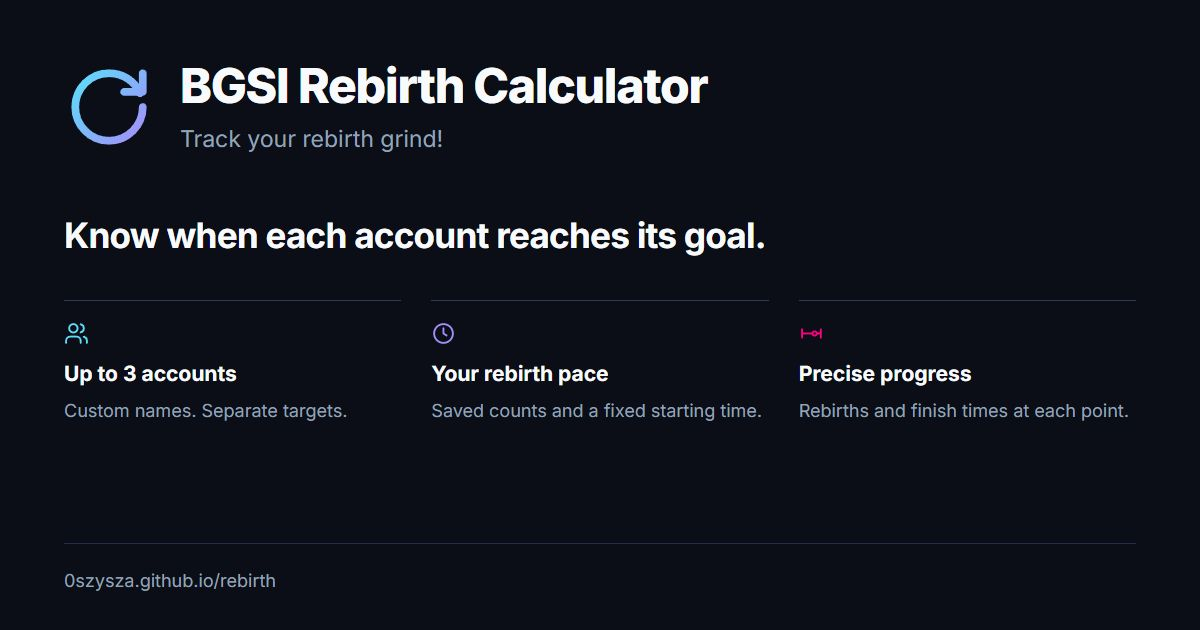
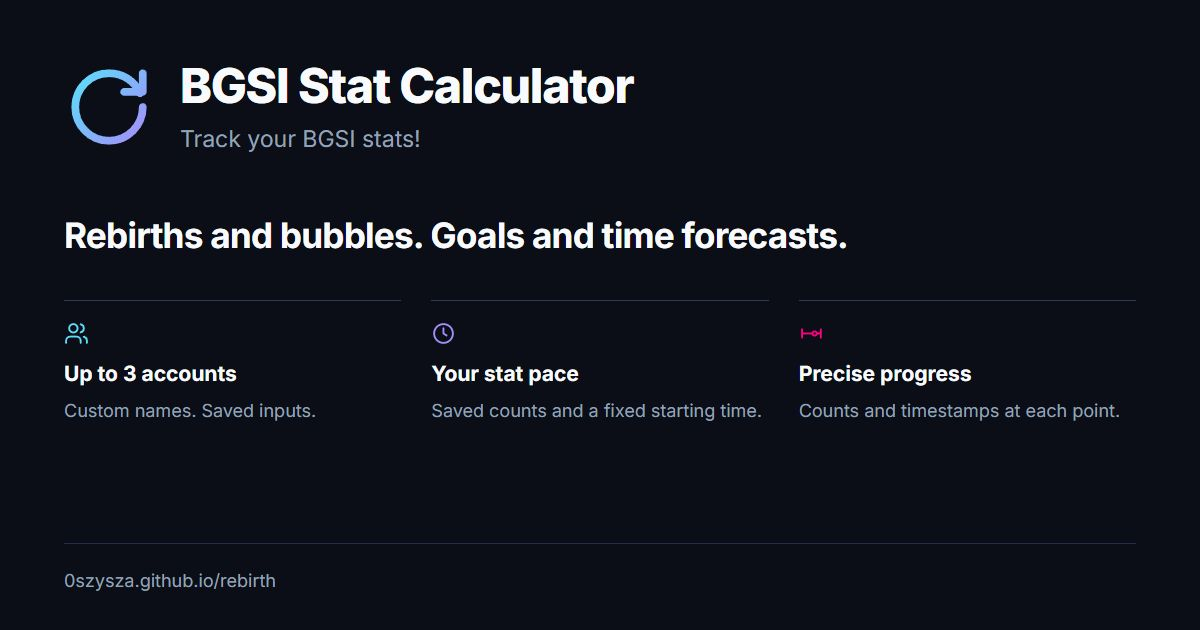
Introduce BGSI Stat Calculator sections and shared Bubble forecasts

diff --git a/app.js b/app.js
@@ -1,5 +1,15 @@
 import { calculate, calculateInterval, restoreSnapshot } from "./calc.mjs?v=20261002-7";
 
+import { parseAmount, formatAmount, stepAmount } from "./amounts.mjs?v=20261004-1";
+
+const isBubble = document.body.dataset.stat === "bubble";
+const statUnit = isBubble ? "bubbles" : "rebirths";
+const statLabel = isBubble ? "Bubbles" : "Rebirths";
+const countNoun = isBubble ? "bubble" : "rebirth";
+const paceLabel = isBubble ? "Bubble" : "Rebirth";
+const amountFormat = { format: value => isBubble ? formatAmount(value) : numberFormat.format(value) };
+const amountInput = (id, value, step = "1") => `<input id="${id}" data-stat-amount type="${isBubble ? "text" : "number"}" min="0" step="${step}" inputmode="${isBubble ? "text" : step === "1" ? "numeric" : "decimal"}" autocomplete="off" ${isBubble ? 'aria-describedby="amount-help" placeholder="e.g. 1.5B"' : ""} value="${value}">`;
+
 const $ = (id) => document.getElementById(id);
 const accounts = [
   { key: "main", name: "Account 1", className: "main", current: "8108", target: "9999", rebirths: "158" },
@@ -17,8 +27,9 @@ const calendarMonthFormat = new Intl.DateTimeFormat("en-GB", { month: "long", ye
 const calendarDayFormat = new Intl.DateTimeFormat("en-GB", { weekday: "long", day: "numeric", month: "long", year: "numeric" });
 const accountCalculations = new Map();
 const previewPositions = new Map();
-let accountCount = 2;
-let calculatorMode = "goal";
+if (isBubble) accounts.forEach(account => { account.current = "0"; account.target = ""; account.rebirths = ""; });
+let accountCount = isBubble ? 1 : 2;
+let calculatorMode = isBubble ? "interval" : "goal";
 let durationMode = "duration";
 let modeStates = {};
 document.body.dataset.accountCount = String(accountCount);
@@ -44,11 +55,11 @@ function accountMarkup(account) {
         <div class="account-card__quick"><span id="${key}-quick-label">ETA</span><strong id="${key}-quick-eta">—</strong></div>
       </div>
       <div class="account-card__fields">
-        <div class="field"><label for="${key}-current">Starting rebirths</label><input id="${key}-current" type="number" min="0" step="1" inputmode="numeric" value="${current}"></div>
-        <div class="field target-field"><label for="${key}-target">Target rebirths</label><input id="${key}-target" type="number" min="0" step="1" inputmode="numeric" value="${target}"></div>
+        <div class="field"><label for="${key}-current">Starting ${statUnit}</label>${amountInput(`${key}-current`, current)}</div>
+        <div class="field target-field"><label for="${key}-target">Target ${statUnit}</label>${amountInput(`${key}-target`, target)}</div>
       </div>
-      <fieldset class="pace-group" aria-label="Rebirth pace"><div class="pace-fields">
-        <div class="field"><label for="${key}-rebirths">Rebirths</label><input id="${key}-rebirths" type="number" min="0" step="any" inputmode="decimal" value="${rebirths}"></div>
+      <fieldset class="pace-group" aria-label="${paceLabel} pace"><div class="pace-fields">
+        <div class="field"><label for="${key}-rebirths">${statLabel}</label>${amountInput(`${key}-rebirths`, rebirths, "any")}</div>
         <span class="pace-fields__per" aria-hidden="true">per</span>
         <div class="field"><label for="${key}-minutes">Minutes</label><input id="${key}-minutes" type="number" min="0.01" step="any" inputmode="decimal" value="10"></div>
       </div></fieldset>
@@ -60,7 +71,7 @@ function accountMarkup(account) {
           <div class="progress-tooltip" id="${key}-progress-tooltip" role="tooltip" aria-live="off" hidden>
             <div class="progress-tooltip__head"><strong id="${key}-hover-percent">—</strong><span id="${key}-hover-count">—</span></div>
             <div class="progress-tooltip__row"><span>At this point</span><strong id="${key}-hover-time">—</strong></div>
-            <div class="progress-tooltip__row interval-gain" hidden><span>Rebirths gained</span><strong id="${key}-hover-gain">—</strong></div>
+            <div class="progress-tooltip__row interval-gain" hidden><span>${statLabel} gained</span><strong id="${key}-hover-gain">—</strong></div>
             <div class="progress-tooltip__row"><span id="${key}-hover-finish-label">Estimated finish</span><strong id="${key}-hover-finish">—</strong></div>
           </div>
         </div>
@@ -85,7 +96,7 @@ function readDate(input) {
   return Number.isFinite(date.getTime()) ? date : null;
 }
 function readNumber(input) {
-  return input.value.trim() === "" ? NaN : Number(input.value);
+  return isBubble && input.hasAttribute("data-stat-amount") ? parseAmount(input.value) : input.value.trim() === "" ? NaN : Number(input.value);
 }
 function formatDuration(milliseconds) {
   if (milliseconds === null) return "No pace";
@@ -100,7 +111,7 @@ function paceForAccount(key) {
   const rebirths = readNumber($(`${key}-rebirths`));
   const minutes = readNumber($(`${key}-minutes`));
   if (!Number.isFinite(rebirths) || rebirths < 0 || !Number.isFinite(minutes) || minutes <= 0) {
-    return { error: "Enter rebirths and a number of minutes above zero." };
+    return { error: `Enter valid ${statUnit} and a number of minutes above zero.${isBubble ? " Amounts accept M, B and T." : ""}` };
   }
   return { rebirths, minutes };
 }
@@ -124,7 +135,7 @@ function showProgressTooltip(key, rawPercent) {
   let pointTime = formatDateTime(data.snapshot);
   if (data.mode === "interval") {
     pointTime = formatDateTime(new Date(data.snapshot.getTime() + data.durationMinutes * 60000 * percent / 100), false);
-    $(`${key}-hover-gain`).textContent = `≈ ${numberFormat.format(Math.floor(data.result.totalGain * percent / 100))}`;
+    $(`${key}-hover-gain`).textContent = `≈ ${amountFormat.format(Math.floor(data.result.totalGain * percent / 100))}`;
   } else if (count !== data.current) {
     const timestamp = data.snapshot.getTime() + (count - data.current) * data.pace.minutes / data.pace.rebirths * 60000;
     pointTime = data.pace.rebirths === 0 ? "No pace estimate"
@@ -134,7 +145,7 @@ function showProgressTooltip(key, rawPercent) {
   const goalTime = data.result.eta ? formatDateTime(data.result.eta, data.mode !== "interval")
       : data.pace.rebirths === 0 ? "No pace" : "Out of range";
   $(`${key}-hover-percent`).textContent = `${percentFormat.format(percent)}%`;
-  $(`${key}-hover-count`).textContent = `${numberFormat.format(count)} rebirths`;
+  $(`${key}-hover-count`).textContent = `${amountFormat.format(count)} ${statUnit}`;
   $(`${key}-hover-time`).textContent = pointTime;
   $(`${key}-hover-finish`).textContent = goalTime;
 
@@ -153,8 +164,11 @@ function showProgressTooltip(key, rawPercent) {
 function clearResult(key, message, neutral = false) {
   accountCalculations.delete(key);
   hideProgressTooltip(key);
-  for (const id of ["progress-text", "eta", "eta-date", "remaining", "duration", "projected"]) $(`${key}-${id}`).textContent = "—";
-  $(`${key}-eta-label`).textContent = calculatorMode === "interval" ? "Rebirths at interval end" : "Estimated finish";
+  for (const id of ["progress-text", "eta", "eta-date", "remaining", "duration", "projected"]) {
+    $(`${key}-${id}`).textContent = "—";
+    $(`${key}-${id}`).removeAttribute("title");
+  }
+  $(`${key}-eta-label`).textContent = calculatorMode === "interval" ? `${statLabel} at interval end` : "Estimated finish";
   $(`${key}-quick-eta`).textContent = "—";
   $(`${key}-progress-bar`).style.width = "0%";
   $(`${key}-progress-bar`).parentElement.setAttribute("aria-valuenow", "0");
@@ -169,7 +183,7 @@ function renderAccount(key, common) {
   const isInterval = calculatorMode === "interval";
   if (!Number.isFinite(current) || current < 0 || (!isInterval && (!Number.isFinite(target) || target < 0))) {
     const blank = $(`${key}-current`).value.trim() === "" || (!isInterval && $(`${key}-target`).value.trim() === "");
-    clearResult(key, blank ? "" : "Counts must be zero or greater.");
+    clearResult(key, blank ? "" : isBubble ? "Enter a valid amount, for example 250M or 1.5B (up to 9,007,199,254,740,991)." : "Counts must be zero or greater.");
     return;
   }
   const pace = paceForAccount(key);
@@ -192,14 +206,14 @@ function renderAccount(key, common) {
   $(`${key}-progress-bar`).style.width = `${result.progress}%`;
   $(`${key}-progress-bar`).parentElement.setAttribute("aria-valuenow", result.progress.toFixed(1));
   $(`${key}-progress-bar`).parentElement.setAttribute("aria-valuetext", isInterval
-    ? `${percentFormat.format(result.progress)}% of the interval elapsed, estimated ${numberFormat.format(Math.floor(result.projected))} rebirths now`
-    : `Estimated ${percentFormat.format(result.progress)}%, ${numberFormat.format(Math.floor(result.projected))} of ${numberFormat.format(target)} rebirths`);
-  $(`${key}-remaining`).textContent = isInterval ? `≈ ${numberFormat.format(Math.floor(result.totalGain))}` : numberFormat.format(Math.ceil(result.remaining));
-  $(`${key}-projected`).textContent = `≈ ${numberFormat.format(Math.floor(result.projected))} rebirths`;
+    ? `${percentFormat.format(result.progress)}% of the interval elapsed, estimated ${amountFormat.format(Math.floor(result.projected))} ${statUnit} now`
+    : `Estimated ${percentFormat.format(result.progress)}%, ${amountFormat.format(Math.floor(result.projected))} of ${amountFormat.format(target)} ${statUnit}`);
+  $(`${key}-remaining`).textContent = isInterval ? `≈ ${amountFormat.format(Math.floor(result.totalGain))}` : amountFormat.format(Math.ceil(result.remaining));
+  $(`${key}-projected`).textContent = `≈ ${amountFormat.format(Math.floor(result.projected))} ${statUnit}`;
   $(`${key}-duration`).textContent = formatDuration(result.activeDuration);
   if (isInterval) {
-    $(`${key}-eta-label`).textContent = "Rebirths at interval end";
-    $(`${key}-eta`).textContent = `≈ ${numberFormat.format(Math.floor(result.finalCount))}`;
+    $(`${key}-eta-label`).textContent = `${statLabel} at interval end`;
+    $(`${key}-eta`).textContent = `≈ ${amountFormat.format(Math.floor(result.finalCount))}`;
     $(`${key}-eta-date`).textContent = `${result.reached ? "Ended" : "Ends"} ${formatDateTime(result.eta, false)}`;
     $(`${key}-quick-eta`).textContent = result.reached ? "Done" : timeFormat.format(result.eta);
   } else if (result.eta) {
@@ -213,6 +227,11 @@ function renderAccount(key, common) {
     $(`${key}-eta`).textContent = pace.rebirths === 0 ? "No pace" : "Out of range";
     $(`${key}-eta-date`).textContent = "—";
     $(`${key}-quick-eta`).textContent = pace.rebirths === 0 ? "No pace" : "—";
+  }
+  if (isBubble) {
+    for (const [field, value] of [["remaining", isInterval ? result.totalGain : result.remaining], ["projected", result.projected], ["eta", isInterval ? result.finalCount : NaN]]) {
+      $(`${key}-${field}`).title = Number.isFinite(value) ? `${numberFormat.format(Math.floor(value))} bubbles` : "";
+    }
   }
   $(`${key}-message`).textContent = "";
   $(`${key}-message`).classList.remove("is-neutral");
@@ -249,7 +268,7 @@ function render() {
 }
 
 function initNumberControls(root) {
-  root.querySelectorAll('input[type="number"]').forEach((input) => {
+  root.querySelectorAll('input[type="number"], input[data-stat-amount]').forEach((input) => {
     if (input.closest(".number-control")) return;
     const label = input.dataset.stepLabel || input.labels?.[0]?.textContent.trim() || "value";
     const control = document.createElement("div");
@@ -265,6 +284,12 @@ function initNumberControls(root) {
 }
 
 function stepNumber(input, direction) {
+  if (isBubble && input.hasAttribute("data-stat-amount")) {
+    input.value = stepAmount(input.value, direction);
+    input.dispatchEvent(new Event("input", { bubbles: true }));
+    input.focus();
+    return;
+  }
   const step = Number(input.dataset.stepSize || (input.step === "any" ? 1 : input.step) || 1);
   const min = input.min === "" ? -Infinity : Number(input.min);
   const max = input.max === "" ? Infinity : Number(input.max);
@@ -569,7 +594,7 @@ document.addEventListener("pointerdown", (event) => {
     for (const account of accounts) hideProgressTooltip(account.key);
   }
 });
-const storageKey = "rebirth-calculator:v1";
+const storageKey = isBubble ? "bubble-calculator:v1" : "rebirth-calculator:v1";
 const accountFields = ["current", "target", "rebirths", "minutes"];
 
 function saveState() {
@@ -629,12 +654,12 @@ function syncCalculatorMode() {
   document.body.dataset.calculatorMode = calculatorMode;
   $("interval-settings").hidden = !isInterval;
   $("calculator-description").textContent = isInterval
-    ? "Set your starting rebirths and pace to see how much each account gains over time."
-    : "Set your rebirth counts and pace to see when each account reaches its goal.";
+    ? `Set your starting ${statUnit} and pace to see how much each account gains over time.`
+    : `Set your ${countNoun} counts and pace to see when each account reaches its goal.`;
   document.querySelector('label[for="snapshot"]').textContent = isInterval ? "Interval starts at" : "Counts recorded at";
   $("snapshot-help").textContent = isInterval
     ? "Enter the counts you had at this starting time. The interval keeps the same end when you return. Choose Now in this calendar when recording fresh counts."
-    : "Enter the rebirth counts you had at this time. This saved starting point keeps your finish time fixed. Estimates assume you keep rebirthing at the entered pace.";
+    : `Enter the ${countNoun} counts you had at this time. This saved starting point keeps your finish time fixed. Estimates assume you keep gaining ${statUnit} at the entered pace.`;
   $("snapshot-picker").setAttribute("aria-label", isInterval ? "Interval start date and time" : "Recorded date and time");
   document.querySelector('[data-date-for="snapshot"]').setAttribute("aria-label", isInterval ? "Choose interval start date and time" : "Choose recorded date and time");
   for (const {key} of accounts) {
@@ -643,7 +668,7 @@ function syncCalculatorMode() {
     card.querySelector(".interval-gain").hidden = !isInterval;
     $(`${key}-quick-label`).textContent = isInterval ? "ENDS" : "ETA";
     $(`${key}-progress-label`).textContent = isInterval ? "Interval progress" : "Estimated progress";
-    $(`${key}-remaining-label`).textContent = isInterval ? "Rebirths gained" : "Remaining";
+    $(`${key}-remaining-label`).textContent = isInterval ? `${statLabel} gained` : "Remaining";
     $(`${key}-hover-finish-label`).textContent = isInterval ? "Interval ends" : "Estimated finish";
     hideProgressTooltip(key);
   }
@@ -738,7 +763,7 @@ restoreState();
 syncCalculatorMode();
 // Persist the initial timestamp once, including migration from older saved inputs.
 saveState();
-document.querySelectorAll('#accounts-grid input[type="number"], #interval-settings input[type="number"]').forEach((input) => {
+document.querySelectorAll('#accounts-grid input[data-stat-amount], #accounts-grid input[type="number"], #interval-settings input[type="number"]').forEach((input) => {
   const update = () => { render(); saveState(); };
   input.addEventListener("input", update);
   input.addEventListener("change", update);

diff --git a/index.html b/index.html
@@ -4,36 +4,38 @@
   <meta charset="utf-8">
   <meta name="viewport" content="width=device-width, initial-scale=1">
   <meta name="theme-color" content="#5CDDFA">
-  <title>BGSI Rebirth Calculator</title>
+  <title>Rebirth | BGSI Stat Calculator</title>
   <link rel="icon" type="image/svg+xml" href="favicon.svg">
   <link rel="preconnect" href="https://fonts.googleapis.com">
   <link rel="preconnect" href="https://fonts.gstatic.com" crossorigin>
   <link href="https://fonts.googleapis.com/css2?family=Inter:wght@400;500;600;700;800&display=swap" rel="stylesheet">
-  <link rel="stylesheet" href="styles.css?v=20261002-24">
-  <script type="module" src="app.js?v=20261002-24"></script>
+  <link rel="stylesheet" href="styles.css?v=20261004-1">
+  <script type="module" src="app.js?v=20261004-1"></script>
 <link rel="canonical" href="https://0szysza.github.io/rebirth/">
 <meta name="description" content="Track your BGSI rebirth grind for up to three named accounts. Estimate a goal finish time or rebirths gained over a custom time interval, with saved inputs and your own pace.">
 <meta property="og:type" content="website">
-<meta property="og:site_name" content="BGSI Rebirth Calculator">
+<meta property="og:site_name" content="BGSI Stat Calculator">
 <meta property="og:locale" content="en_GB">
-<meta property="og:title" content="BGSI Rebirth Calculator">
+<meta property="og:title" content="Rebirth | BGSI Stat Calculator">
 <meta property="og:description" content="Track your BGSI rebirth grind for up to three named accounts. Estimate a goal finish time or rebirths gained over a custom time interval, with saved inputs and your own pace.">
 <meta property="og:url" content="https://0szysza.github.io/rebirth/">
-<meta property="og:image" content="https://0szysza.github.io/rebirth/assets/social/cover.png?v=20261002-1">
-<meta property="og:image:secure_url" content="https://0szysza.github.io/rebirth/assets/social/cover.png?v=20261002-1">
+<meta property="og:image" content="https://0szysza.github.io/rebirth/assets/social/cover.png?v=20261004-1">
+<meta property="og:image:secure_url" content="https://0szysza.github.io/rebirth/assets/social/cover.png?v=20261004-1">
 <meta property="og:image:type" content="image/png">
 <meta property="og:image:width" content="1200">
 <meta property="og:image:height" content="630">
-<meta property="og:image:alt" content="BGSI Rebirth Calculator: three accounts, custom pace and estimated finish times.">
+<meta property="og:image:alt" content="BGSI Stat Calculator: three accounts, custom pace and estimated finish times.">
 <meta name="twitter:card" content="summary_large_image">
-<meta name="twitter:title" content="BGSI Rebirth Calculator">
+<meta name="twitter:title" content="Rebirth | BGSI Stat Calculator">
 <meta name="twitter:description" content="Track your BGSI rebirth grind for up to three named accounts. Estimate a goal finish time or rebirths gained over a custom time interval, with saved inputs and your own pace.">
-<meta name="twitter:image" content="https://0szysza.github.io/rebirth/assets/social/cover.png?v=20261002-1">
-<meta name="twitter:image:alt" content="BGSI Rebirth Calculator: three accounts, custom pace and estimated finish times.">
+<meta name="twitter:image" content="https://0szysza.github.io/rebirth/assets/social/cover.png?v=20261004-1">
+<meta name="twitter:image:alt" content="BGSI Stat Calculator: three accounts, custom pace and estimated finish times.">
 </head>
-<body>
+<body data-stat="rebirth">
   <svg class="icon-library" aria-hidden="true" xmlns="http://www.w3.org/2000/svg">
     <symbol id="icon-calendar" viewBox="0 0 24 24"><rect x="3" y="5" width="18" height="16" rx="2"/><path d="M16 3v4M8 3v4M3 11h18"/></symbol>
+    <symbol id="icon-rebirth" viewBox="0 0 24 24"><path d="M21 12a9 9 0 1 1-3-6.7L21 8"/><path d="M21 3v5h-5"/></symbol>
+    <symbol id="icon-bubble" viewBox="0 0 24 24"><circle cx="10" cy="14" r="7"/><circle cx="18" cy="5" r="3"/><path d="M6 12a4 4 0 0 1 4-2"/></symbol>
     <symbol id="icon-clock" viewBox="0 0 24 24"><circle cx="12" cy="12" r="9"/><path d="M12 7v5l3 2"/></symbol>
     <symbol id="icon-arrow-left" viewBox="0 0 24 24"><path d="M19 12H5m7 7-7-7 7-7"/></symbol>
     <symbol id="icon-users" viewBox="0 0 24 24"><path d="M16 21v-2a4 4 0 0 0-4-4H6a4 4 0 0 0-4 4v2"/><circle cx="9" cy="7" r="4"/><path d="M22 21v-2a4 4 0 0 0-3-3.87M16 3.13a4 4 0 0 1 0 7.75"/></symbol>
@@ -49,22 +51,26 @@
   <header class="site-header">
     <div class="site-header__inner">
       <a class="home-link" href="https://0szysza.github.io/" aria-label="Back to home" title="Back to home"><svg class="icon" aria-hidden="true"><use href="#icon-arrow-left"></use></svg></a>
-      <a class="brand" href="./" aria-label="BGSI Rebirth Calculator home">
+      <a class="brand" href="/rebirth/" aria-label="BGSI Stat Calculator — Rebirth">
         <span class="brand__logo" aria-hidden="true">
           <img src="favicon.svg" width="39" height="39" alt="">
         </span>
-        <span class="brand__copy"><strong>BGSI Rebirth Calculator</strong><small>Track your rebirth grind!</small></span>
+        <span class="brand__copy"><strong>BGSI Stat Calculator</strong><small>Track your BGSI stats!</small></span>
       </a>
       <nav class="tool-switcher" aria-label="Switch tool">
         <details class="tool-menu">
           <summary aria-label="Tools"><svg class="icon" aria-hidden="true"><use href="#icon-globe"></use></svg><span>Tools</span><svg class="icon tool-menu__chevron" aria-hidden="true"><use href="#icon-chevron"></use></svg></summary>
           <div class="tool-menu__list">
             <a href="https://0szysza.github.io/trackccu/"><img class="tool-menu__logo" src="https://0szysza.github.io/trackccu/favicon.png" width="18" height="18" alt=""><span><strong>TrackCCU</strong><small>Track any Roblox Game CCU!</small></span></a>
-            <a href="./" aria-current="page"><img class="tool-menu__logo" src="favicon.svg" width="18" height="18" alt=""><span><strong>BGSI Rebirth Calculator</strong><small>Track your rebirth grind!</small></span></a>
+            <a href="/rebirth/" aria-current="page"><img class="tool-menu__logo" src="favicon.svg" width="18" height="18" alt=""><span><strong>BGSI Stat Calculator</strong><small>Track your BGSI stats!</small></span></a>
           </div>
         </details>
       </nav>
     </div>
+    <nav class="stat-nav" aria-label="BGSI calculators">
+      <a href="/rebirth/" aria-current="page"><svg class="icon" aria-hidden="true"><use href="#icon-rebirth"></use></svg><span>Rebirth</span></a>
+      <a href="/bubble/"><svg class="icon" aria-hidden="true"><use href="#icon-bubble"></use></svg><span>Bubble</span></a>
+    </nav>
   </header>
 
   <main class="page-shell">

diff --git a/assets/social/card.html b/assets/social/card.html
@@ -1,2 +1,2 @@
 <!doctype html>
-<html lang="en"><head><meta charset="utf-8"><meta name="viewport" content="width=1200"><title>Social preview</title><link rel="preconnect" href="https://fonts.googleapis.com"><link rel="preconnect" href="https://fonts.gstatic.com" crossorigin><link href="https://fonts.googleapis.com/css2?family=Inter:wght@400;600;700;800&display=swap" rel="stylesheet"><style>*{box-sizing:border-box}html,body{margin:0;width:1200px;height:630px;overflow:hidden;background:#0b0d17;color:#f8fafc;font-family:Inter,Arial,sans-serif}body{padding:58px 64px 36px;display:flex;flex-direction:column}.brand{display:flex;align-items:center;gap:26px}.brand>img{width:90px;height:90px;object-fit:contain}.brand h1{font-size:48px;font-weight:800;letter-spacing:-1.2px;line-height:1.15;margin:0}.brand p{font-size:23px;line-height:1.5;color:#94a3b8;margin:9px 0 0}.section-label{margin-left:auto;align-self:flex-start;margin-top:10px;font-size:20px;color:#94a3b8;font-weight:600}.headline{margin:56px 0 0;font-size:35px;line-height:1.3;font-weight:700;letter-spacing:-.7px}.features{display:grid;grid-template-columns:repeat(3,minmax(0,1fr));gap:30px;margin-top:42px}.feature{padding-top:20px;border-top:1px solid #303a55}.feature svg{width:25px;height:25px;fill:none;stroke:var(--accent,#5cddfa);stroke-width:1.8;stroke-linecap:round;stroke-linejoin:round;display:block;margin-bottom:13px}.feature strong{display:block;font-size:21px;font-weight:700;line-height:1.4}.feature p{font-size:18px;line-height:1.5;color:#94a3b8;margin:8px 0 0}.feature:nth-child(2){--accent:#a38ffa}.feature:nth-child(3){--accent:#ff007f}footer{margin-top:auto;padding-top:24px;border-top:1px solid #262d4a;font-size:18px;line-height:26px;color:#94a3b8}.tools{display:grid;grid-template-columns:1fr 1px 1fr;align-items:center;gap:35px;margin-top:62px}.tool{display:flex;align-items:center;gap:20px}.tool img{width:68px;height:68px;object-fit:contain;flex:none}.tool strong{display:block;font-size:27px;line-height:1.28;font-weight:800;letter-spacing:-.6px}.tool small{display:block;margin-top:8px;color:#94a3b8;font-size:17px;line-height:1.5}.divider{height:92px;background:#303a55}</style></head><body><header class="brand"><img src="../../favicon.svg" alt=""><div><h1>BGSI Rebirth Calculator</h1><p>Track your rebirth grind!</p></div></header><h2 class="headline">Know when each account reaches its goal.</h2><div class="features"><div class="feature"><svg viewBox="0 0 24 24" aria-hidden="true"><path d="M16 21v-2a4 4 0 0 0-4-4H6a4 4 0 0 0-4 4v2M22 21v-2a4 4 0 0 0-3-3.87M16 3.13a4 4 0 0 1 0 7.75"/><circle cx="9" cy="7" r="4"/></svg><strong>Up to 3 accounts</strong><p>Custom names. Separate targets.</p></div><div class="feature"><svg viewBox="0 0 24 24" aria-hidden="true"><circle cx="12" cy="12" r="9"/><path d="M12 7v5l3 2"/></svg><strong>Your rebirth pace</strong><p>Saved counts and a fixed starting time.</p></div><div class="feature"><svg viewBox="0 0 24 24" aria-hidden="true"><path d="M3 12h18M3 8v8M21 8v8"/><circle cx="15" cy="12" r="2" fill="#0b0d17"/></svg><strong>Precise progress</strong><p>Rebirths and finish times at each point.</p></div></div><footer>0szysza.github.io/rebirth</footer></body></html>
+<html lang="en"><head><meta charset="utf-8"><meta name="viewport" content="width=1200"><title>Social preview</title><link rel="preconnect" href="https://fonts.googleapis.com"><link rel="preconnect" href="https://fonts.gstatic.com" crossorigin><link href="https://fonts.googleapis.com/css2?family=Inter:wght@400;600;700;800&display=swap" rel="stylesheet"><style>*{box-sizing:border-box}html,body{margin:0;width:1200px;height:630px;overflow:hidden;background:#0b0d17;color:#f8fafc;font-family:Inter,Arial,sans-serif}body{padding:58px 64px 36px;display:flex;flex-direction:column}.brand{display:flex;align-items:center;gap:26px}.brand>img{width:90px;height:90px;object-fit:contain}.brand h1{font-size:48px;font-weight:800;letter-spacing:-1.2px;line-height:1.15;margin:0}.brand p{font-size:23px;line-height:1.5;color:#94a3b8;margin:9px 0 0}.section-label{margin-left:auto;align-self:flex-start;margin-top:10px;font-size:20px;color:#94a3b8;font-weight:600}.headline{margin:56px 0 0;font-size:35px;line-height:1.3;font-weight:700;letter-spacing:-.7px}.features{display:grid;grid-template-columns:repeat(3,minmax(0,1fr));gap:30px;margin-top:42px}.feature{padding-top:20px;border-top:1px solid #303a55}.feature svg{width:25px;height:25px;fill:none;stroke:var(--accent,#5cddfa);stroke-width:1.8;stroke-linecap:round;stroke-linejoin:round;display:block;margin-bottom:13px}.feature strong{display:block;font-size:21px;font-weight:700;line-height:1.4}.feature p{font-size:18px;line-height:1.5;color:#94a3b8;margin:8px 0 0}.feature:nth-child(2){--accent:#a38ffa}.feature:nth-child(3){--accent:#ff007f}footer{margin-top:auto;padding-top:24px;border-top:1px solid #262d4a;font-size:18px;line-height:26px;color:#94a3b8}.tools{display:grid;grid-template-columns:1fr 1px 1fr;align-items:center;gap:35px;margin-top:62px}.tool{display:flex;align-items:center;gap:20px}.tool img{width:68px;height:68px;object-fit:contain;flex:none}.tool strong{display:block;font-size:27px;line-height:1.28;font-weight:800;letter-spacing:-.6px}.tool small{display:block;margin-top:8px;color:#94a3b8;font-size:17px;line-height:1.5}.divider{height:92px;background:#303a55}</style></head><body><header class="brand"><img src="../../favicon.svg" alt=""><div><h1>BGSI Stat Calculator</h1><p>Track your BGSI stats!</p></div></header><h2 class="headline">Rebirths and bubbles. Goals and time forecasts.</h2><div class="features"><div class="feature"><svg viewBox="0 0 24 24" aria-hidden="true"><path d="M16 21v-2a4 4 0 0 0-4-4H6a4 4 0 0 0-4 4v2M22 21v-2a4 4 0 0 0-3-3.87M16 3.13a4 4 0 0 1 0 7.75"/><circle cx="9" cy="7" r="4"/></svg><strong>Up to 3 accounts</strong><p>Custom names. Saved inputs.</p></div><div class="feature"><svg viewBox="0 0 24 24" aria-hidden="true"><circle cx="12" cy="12" r="9"/><path d="M12 7v5l3 2"/></svg><strong>Your stat pace</strong><p>Saved counts and a fixed starting time.</p></div><div class="feature"><svg viewBox="0 0 24 24" aria-hidden="true"><path d="M3 12h18M3 8v8M21 8v8"/><circle cx="15" cy="12" r="2" fill="#0b0d17"/></svg><strong>Precise progress</strong><p>Counts and timestamps at each point.</p></div></div><footer>0szysza.github.io/rebirth</footer></body></html>

diff --git a/styles.css b/styles.css
@@ -207,3 +207,13 @@ body[data-calculator-mode=interval] .eta-block strong{overflow-wrap:anywhere}
 @media(max-width:1100px){.account-selector{flex-direction:column;align-items:flex-start;gap:16px}.selector-controls{width:100%;justify-content:space-between;margin-left:0}}
 @media(max-width:680px){.selector-controls{flex-direction:column-reverse;align-items:stretch;gap:14px}.selector-controls>.account-mode-field{margin-left:0}.time-controls{display:flex;flex-direction:column;align-items:stretch;gap:14px;width:100%}.snapshot-row{align-items:stretch;gap:8px}.snapshot-row>.date-control{width:100%}.snapshot-row input{height:42px;font-size:16px}}
 @media(max-width:639px){.selector-heading h1{font-size:24px;line-height:32px}.field input{font-size:16px}}
+/* Calculator sections share the header and existing type sizes. */
+.stat-nav{display:flex;align-items:center;gap:8px;width:min(100% - 64px,1216px);margin-inline:auto;padding:0 0 8px}
+.stat-nav a{display:inline-flex;align-items:center;justify-content:center;gap:8px;min-height:38px;padding:0 16px;border:1px solid transparent;border-radius:8px;color:#94a3b8;font-size:14px;font-weight:600;transition:color .15s,background .15s}
+.stat-nav a .icon{width:18px;height:18px}
+.stat-nav a:hover{color:#f8fafc;background:#1c2539}
+.stat-nav a[aria-current=page]{border-color:#34425f;background:#253049;color:#f8fafc}
+.stat-nav a[aria-current=page] .icon{color:#5CDDFA}
+.number-control input[data-stat-amount]{padding-right:40px;font-variant-numeric:tabular-nums}
+.selector-heading .amount-help{position:relative;display:flex;align-items:center;gap:7px;margin-top:8px;font-size:12px;line-height:18px;color:#91a0b5}
+@media(max-width:680px){.stat-nav{width:calc(100% - 32px);padding-bottom:8px}.stat-nav a{flex:1}.selector-heading .amount-help{max-width:100%}}

diff --git a/README.md b/README.md
@@ -1,13 +1,15 @@
-# BGSI Rebirth Calculator
+# BGSI Stat Calculator
 
-Track your rebirth grind toward a target or across a fixed time interval, with saved starting counts and your own pace.
+Forecast your BGSI rebirths and bubbles toward a target or across a fixed time interval, with saved starting counts and your own pace.
 
-**[Open the calculator](https://0szysza.github.io/rebirth/)** · [CCU Tracker](https://0szysza.github.io/trackccu/) · [Tool hub](https://0szysza.github.io/)
+**[Rebirth Calculator](https://0szysza.github.io/rebirth/)** · **[Bubble Calculator](https://0szysza.github.io/bubble/)** · [CCU Tracker](https://0szysza.github.io/trackccu/) · [Tool hub](https://0szysza.github.io/)
 
 ## Features
 
 | Feature | What it does |
 | --- | --- |
+| Rebirth and Bubble sections | Switch between `/rebirth/` and `/bubble/` in the header. Each keeps its own saved inputs, names and settings. |
+| Bubble amount shortcuts | Enter plain numbers or K/M/B/T suffixes, including decimals: `250M`, `1.5B`, `0.25T`. Results use compact units with exact totals on hover. |
 | Three calculation options | One selector offers **Reach a goal**, **For a duration** and **Until a time**. Estimate a goal finish time or the total and gained rebirths over a duration or up to a deadline. |
 | 1, 2 or 3 accounts | Choose how many accounts to track. Every account keeps its own inputs and occupies a full-width card. |
 | Custom account names | Rename Account 1/2/3 with the edit icon; save, cancel or reset to the default name. Reset appears only while editing a custom name. |
@@ -25,7 +27,20 @@ Track your rebirth grind toward a target or across a fixed time interval, with s
 | Shared navigation | The Tools dropdown opens CCU Tracker; the header arrow opens the tool hub. Social links stay in the footer. |
 | Link previews | Static Discord/social metadata and a branded 1200 × 630 cover. |
 
-## How to use it
+## Bubble Calculator
+
+Open **Bubble** in the header. Enter **Starting bubbles**, then your **Bubbles per Minutes** pace; minutes default to **10**. Choose a duration in hours/minutes, an exact end date/time, or a target. Results show total bubbles, bubbles gained, estimated current bubbles, time left and an interactive progress bar.
+
+| Shortcut | Meaning | Example |
+| --- | --- | --- |
+| K | Thousand (1,000) | `250K` = 250,000 |
+| M | Million (1,000,000) | `250M` = 250,000,000 |
+| B | Billion (1,000,000,000) | `1.5B` = 1,500,000,000 |
+| T | Trillion (1,000,000,000,000) | `0.25T` = 250,000,000,000 |
+
+Uppercase and lowercase suffixes work. You can paste a full number with thousands separators (`1,500,000,000`) or use a decimal comma (`1,5B`). Inputs above JavaScript’s maximum safe integer (9,007,199,254,740,991) are rejected. Forecasts assume a constant pace and remain estimates.
+
+## How to use Rebirth
 
 ### Reach a goal
 
